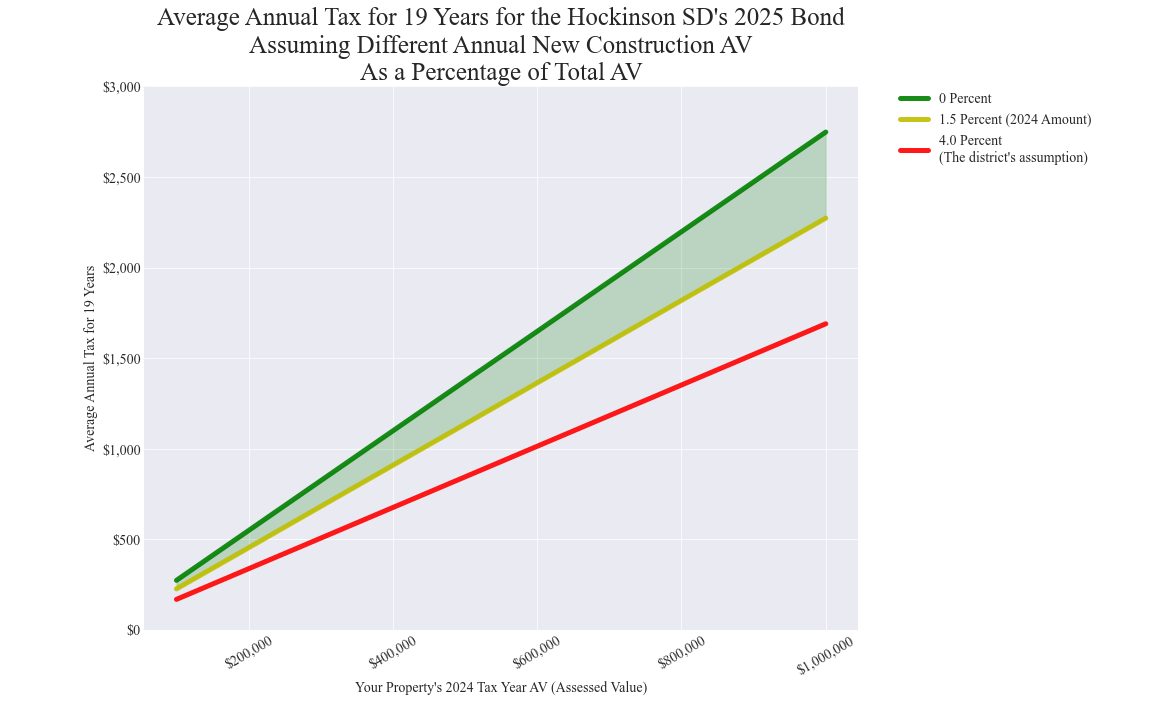
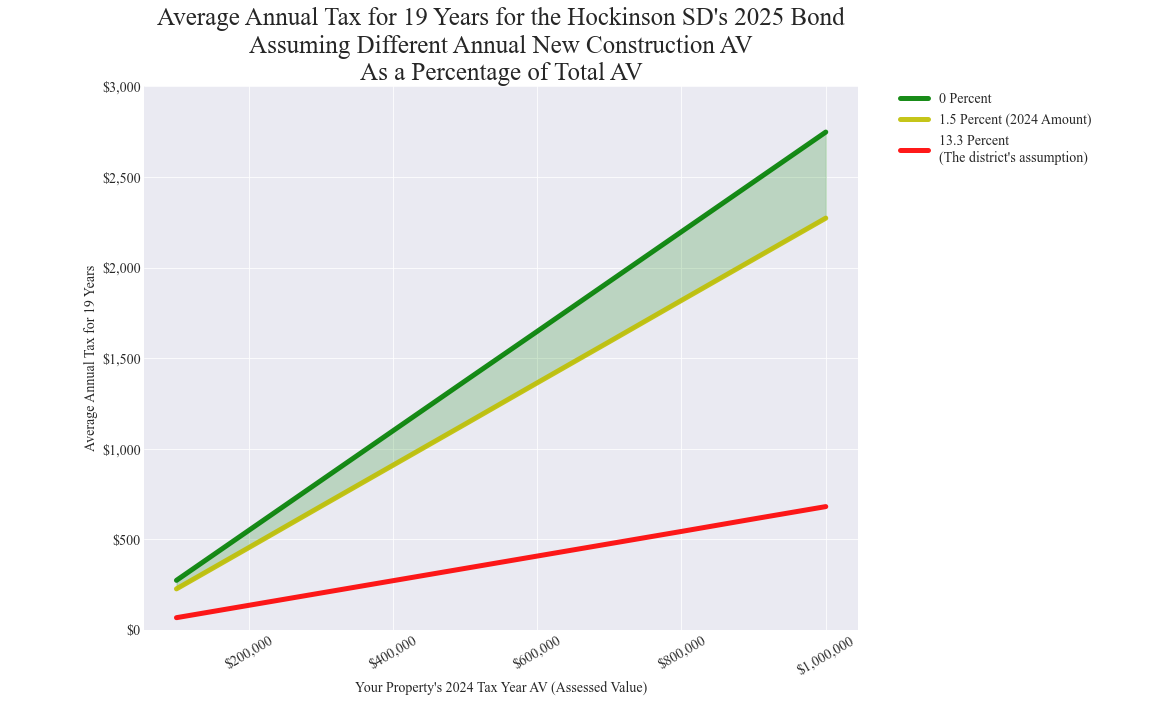
Updated elec 20250211
Updated:
Hockinson SD's info

diff --git a/_includes/cost_estimates/20250211/HockinsonBondTable_20250211.html b/_includes/cost_estimates/20250211/HockinsonBondTable_20250211.html
@@ -37,7 +37,7 @@ table, th, td {
 	pofChangeMin = -6.0;
 	pofChangeMax = 6.0;
 	newConstructionChangeMin = 0.0;
-	newConstructionChangeMax = 6.0;
+	newConstructionChangeMax = 20.0;
 	examplePropertyAVChangeMin = -30;
 	examplePropertyAVChangeMax = 30;
 	existingPropertiesAVChangeMin = -30;
